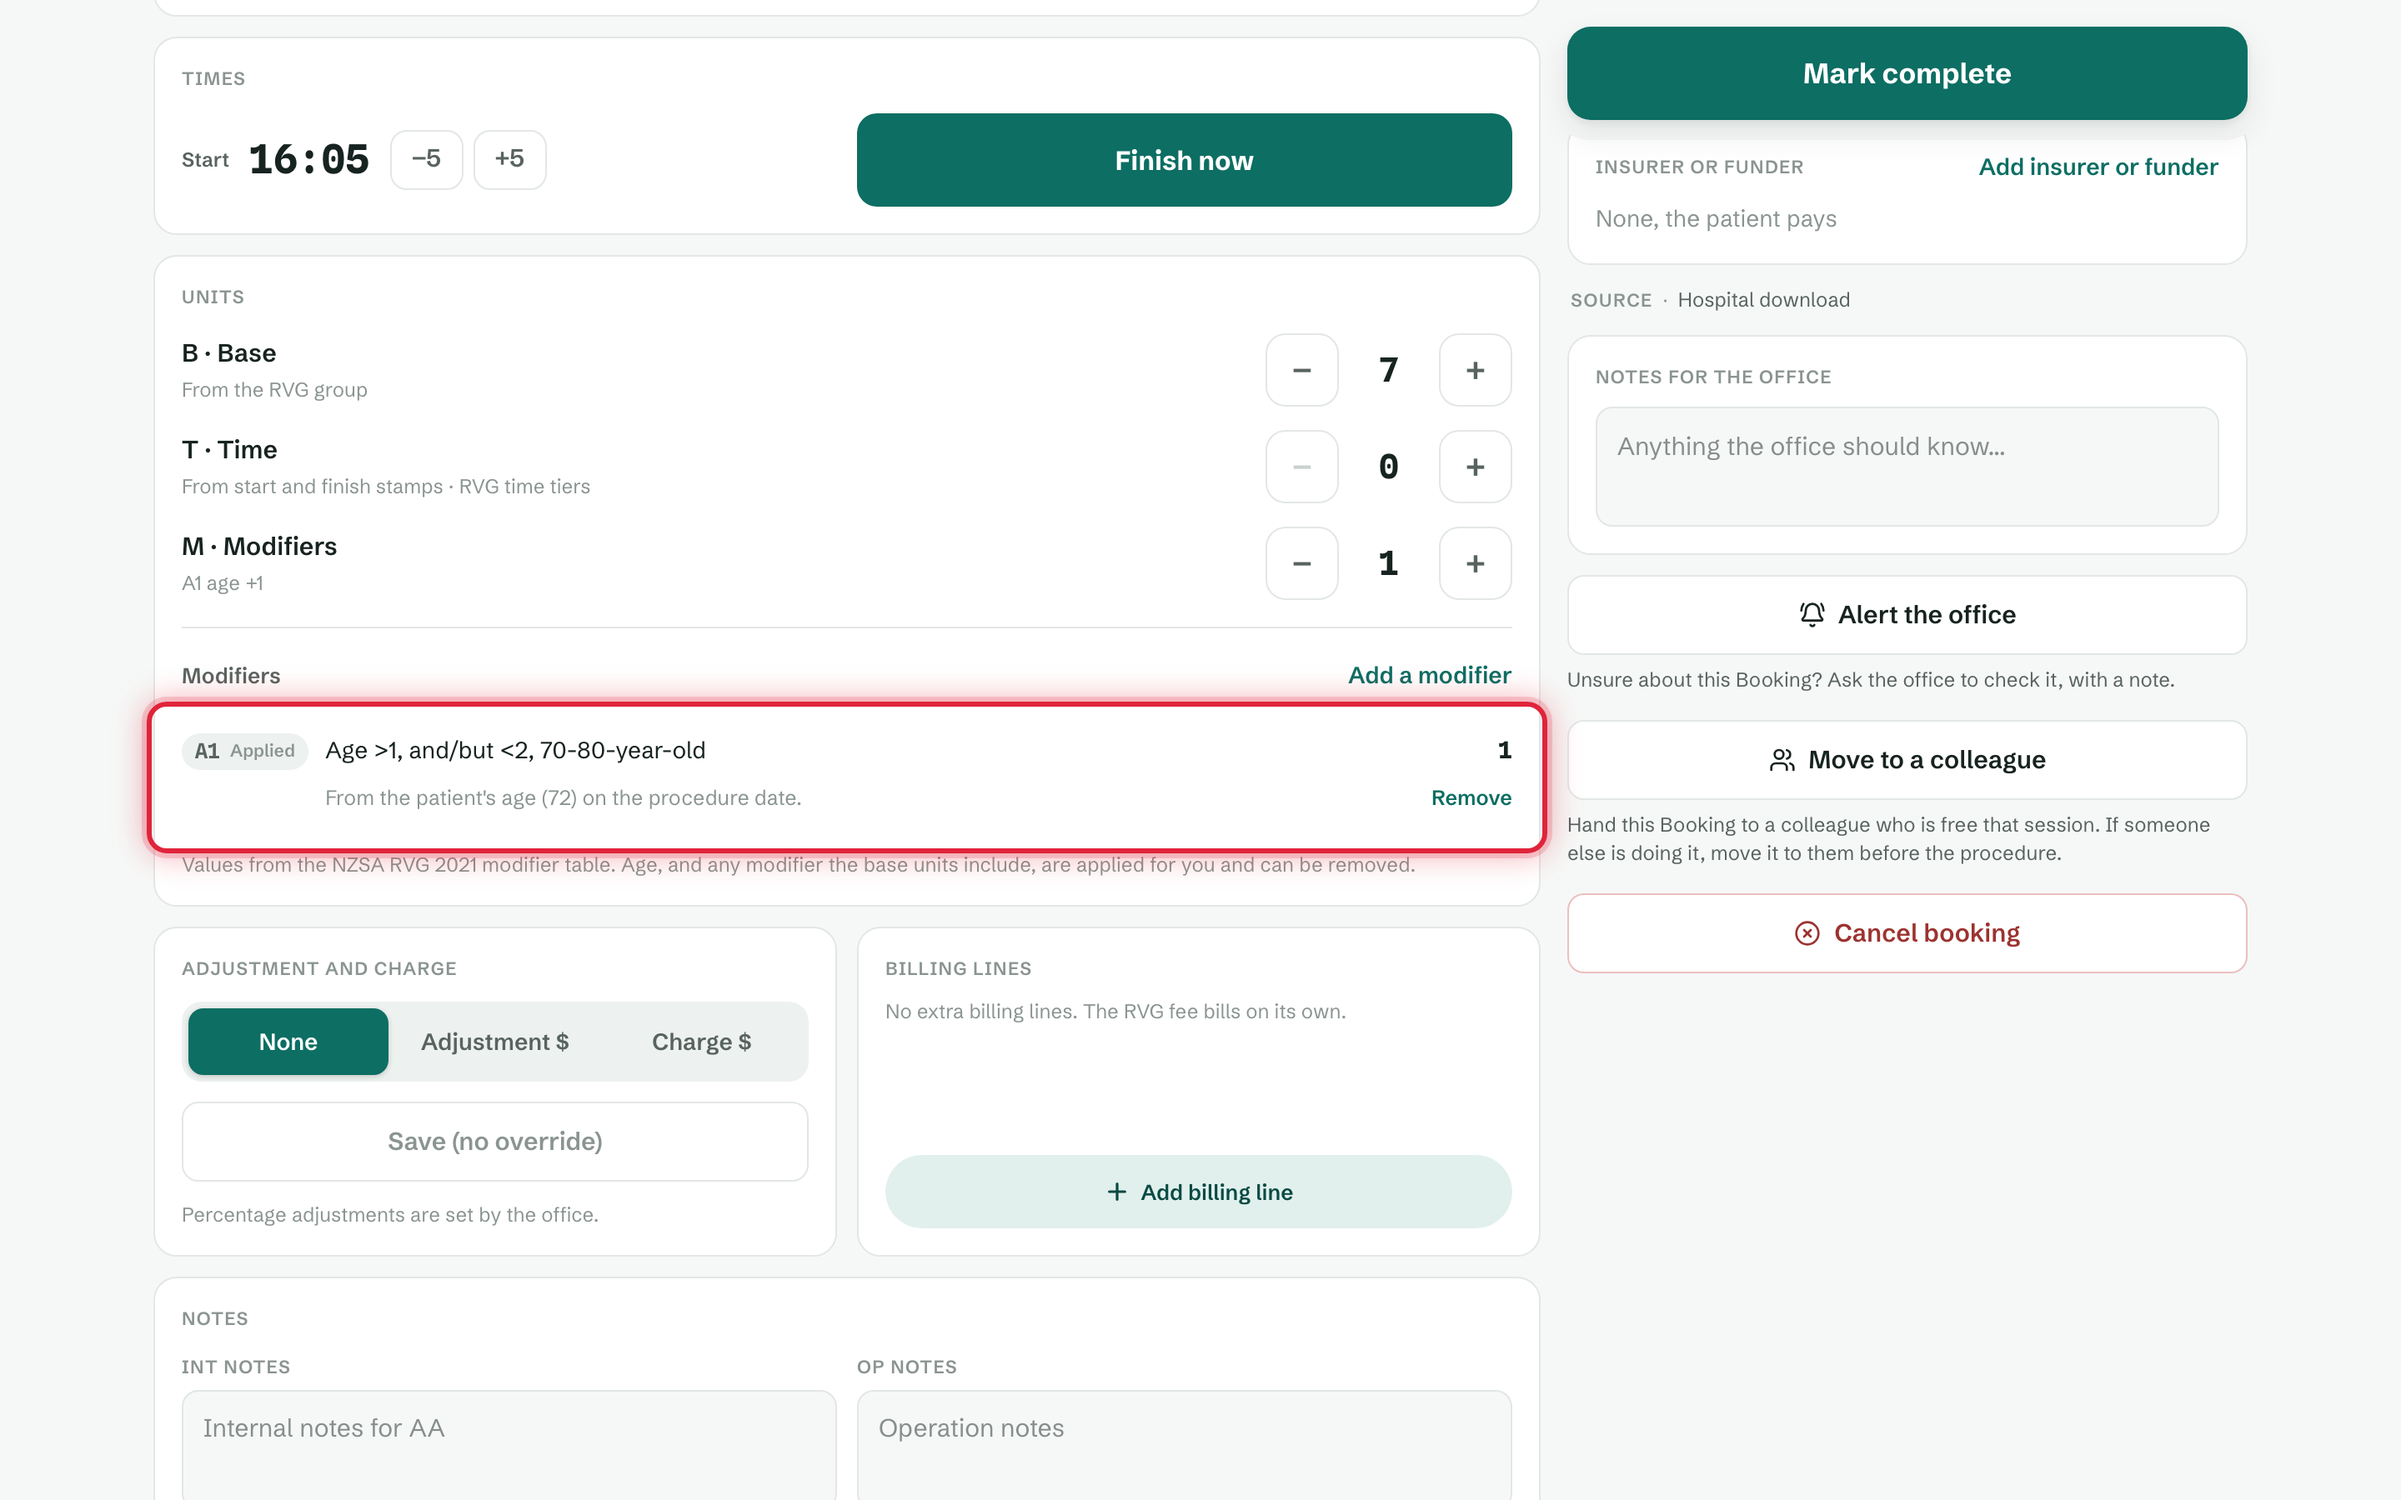
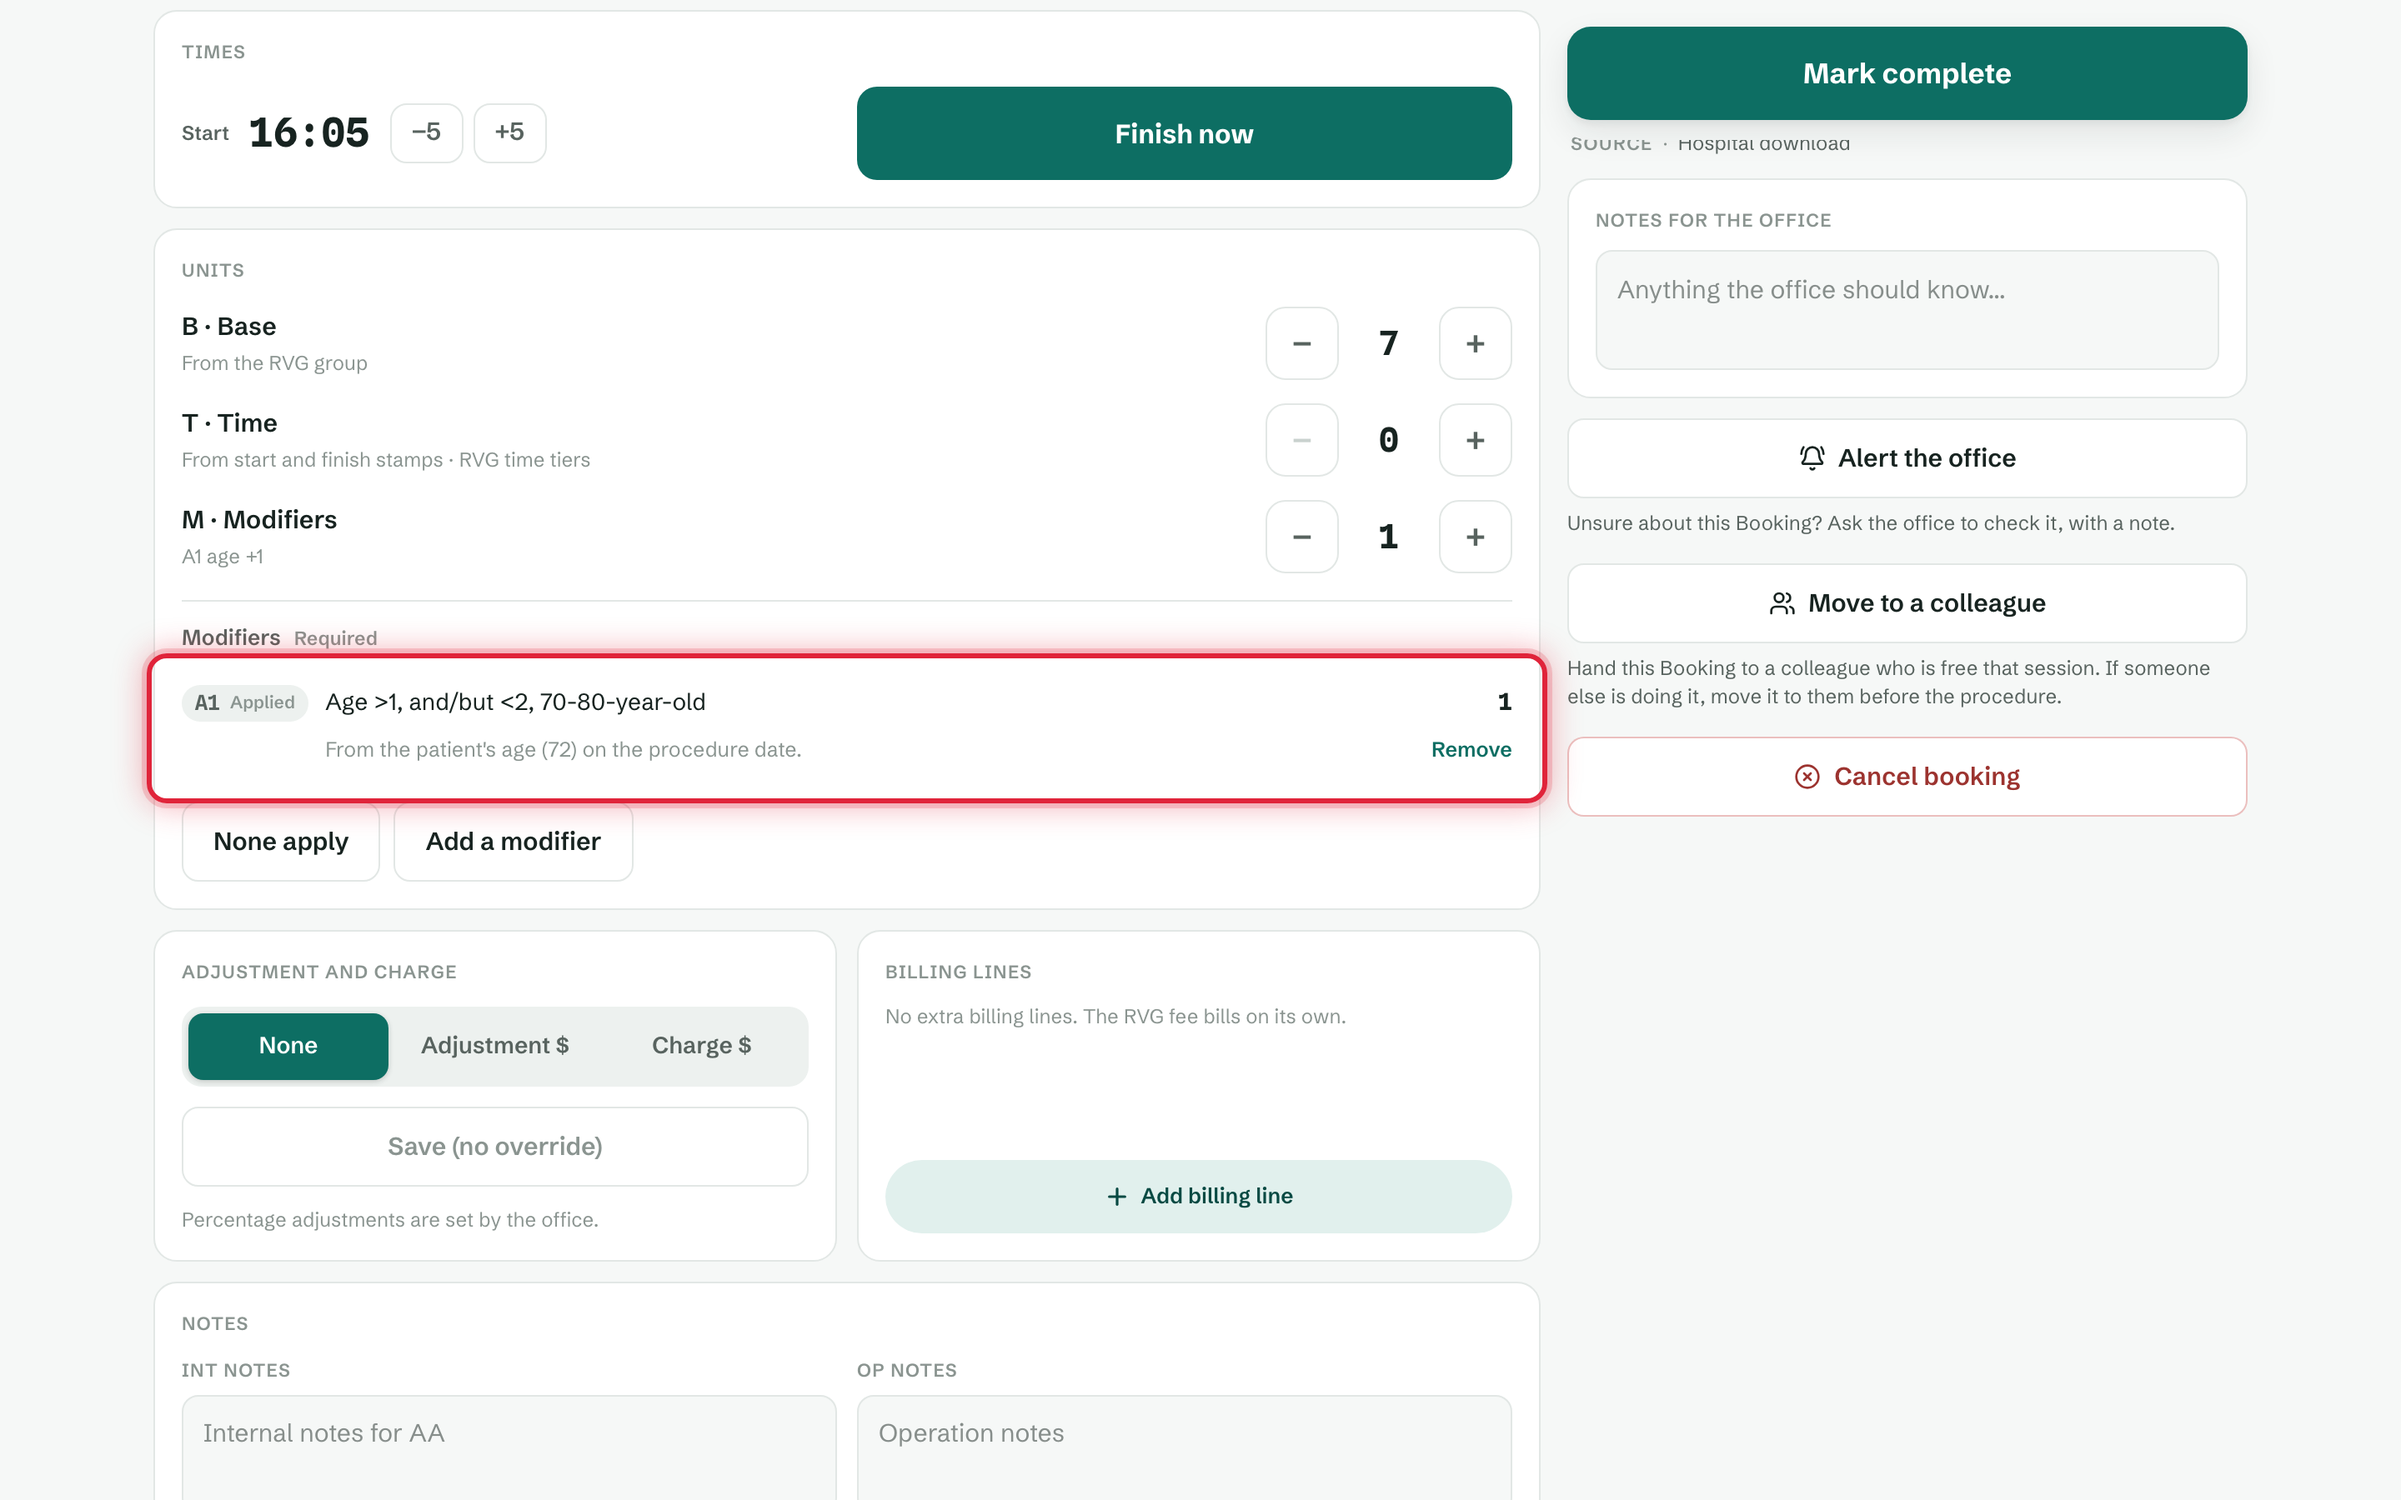
21a owner review: slimmer Times and Modifiers steps; catalogue capture
- Times: a missing start or finish is shown by the red outline on its
  action alone; no "Required" caption and no "Add the start/finish time."
  note (a finish before the start still gets its note).
- Modifiers: no red step note and no source caption; "None apply" and
  "Add a modifier" are equal-weight outlined rounded rectangles below the
  modifiers already applied; once answered, "No modifiers claimed · Change"
  takes their place. The block reaches to the card's edge so its focus ring
  sits near it, its corners concentric with the card's.
- Catalogue capture for US-03.3.9, US-04.3.11, US-03.6.1, US-03.3.3,
  US-03.3.4, US-07.2.2 and US-06.4.1 (7/7 recipes, dry run and capture).

diff --git a/aa-prototype/src/shared/capture/ModifiersSection.tsx b/aa-prototype/src/shared/capture/ModifiersSection.tsx
@@ -6,8 +6,8 @@ import type { ModifierId, Procedure } from '../../domain/types'
 import { confirmNoModifiers, modifierFactsFor, removeModifier, restoreModifier, useAppStore, type Actor } from '../../store'
 import { useSurface } from '../surface'
 import { ModifierPickerSheet } from './ModifierPickerSheet'
-import { Caption, FailureNotes, RequiredCaption } from './ui'
-import { modifiersStepAnswered } from '../../domain/billing/completion'
+import { FailureNotes, RequiredCaption } from './ui'
+import { MODIFIERS_STEP_MESSAGE, modifiersStepAnswered } from '../../domain/billing/completion'
 import { TextAction } from '../ui/TextAction'
 import { Button } from '../ui/Button'
 
@@ -46,6 +46,9 @@ interface ModifiersSectionProps {
  * dialog on web and Admin. Removing writes at once; claiming writes only when
  * the explanation is given (the picker's Claim).
  */
+/** How far the modifiers block reaches into the Units card's 16px padding, so its focus ring hugs the card. */
+const INSET_REACH = 12
+
 export function ModifiersSection({ procedure, items, actor, editable, required = false, latched = false, failures, onError }: ModifiersSectionProps) {
   const { variant } = useSurface()
   const web = variant === 'web'
@@ -84,7 +87,11 @@ export function ModifiersSection({ procedure, items, actor, editable, required =
       tabIndex={-1}
       data-validation-procedure-id={procedure.id}
       data-validation-fields="modifierClaims"
-      style={{ display: 'flex', flexDirection: 'column', gap: 10, borderRadius: radius.sm }}
+      className="aa-validation-inset"
+      // The last block of the Units card: it reaches to 4px inside the card's padding (16) so its focus ring
+      // sits near the card's edge, and its corners are concentric with the card's (owner review, 2026-11-17):
+      // card radius 14 = this radius (9) + the 5px between it and the card's outer edge (16 - 12 padding, + 1 border).
+      style={{ display: 'flex', flexDirection: 'column', gap: 10, margin: `0 -${INSET_REACH}px -${INSET_REACH}px`, padding: `0 ${INSET_REACH}px ${INSET_REACH}px`, borderRadius: radius.card - (16 - INSET_REACH + 1) }}
     >
       {/* The seam: the arithmetic above it, the itemised facts that make up M below. */}
       <div style={{ height: 1, background: neutral.line, margin: '2px 0' }} />
@@ -95,45 +102,12 @@ export function ModifiersSection({ procedure, items, actor, editable, required =
             <RequiredCaption latched={latched} />
           )}
         </span>
-        {editable && !asking && (
+        {editable && !asking && !noneConfirmed && (
           <TextAction onClick={() => setPicker({})} shot="modifier-add">
             Add a modifier
           </TextAction>
         )}
       </div>
-
-      {/* The step unanswered on an RVG kind: two equal answers, none or a claim (AR-58 A20). */}
-      {asking && editable && (
-        <div style={{ display: 'flex', flexWrap: 'wrap', alignItems: 'center', gap: 14 }}>
-          <Button variant="pill" shot="capture-modifiers-none" onClick={() => run(confirmNoModifiers(useAppStore, actor, procedure.id))}>
-            None apply
-          </Button>
-          <TextAction onClick={() => setPicker({})} shot="modifier-add">
-            Add a modifier
-          </TextAction>
-        </div>
-      )}
-
-      {noneConfirmed ? (
-        <div data-shot="capture-modifiers-none-done" style={{ fontSize: 13, color: neutral.slate, lineHeight: '18px' }}>
-          No modifiers claimed
-          {editable && (
-            <>
-              {' · '}
-              <TextAction small label="Change: add a modifier" onClick={() => setPicker({})}>
-                Change
-              </TextAction>
-            </>
-          )}
-        </div>
-      ) : (
-        empty &&
-        !(asking && editable) && (
-          <div style={{ fontSize: 13, color: neutral.mist, lineHeight: '18px' }}>
-            No modifiers. Add any that apply, each with a short reason.
-          </div>
-        )
-      )}
 
       {(preApplied.length > 0 || claimed.length > 0) && (
         <div role="list" aria-label="Modifiers on this procedure" style={{ display: 'flex', flexDirection: 'column', gap: 2 }}>
@@ -182,11 +156,46 @@ export function ModifiersSection({ procedure, items, actor, editable, required =
         </div>
       ))}
 
-      {/* A claim's own problem shows on its row; anything else the validator says shows here. */}
-      <FailureNotes failures={failures.filter((f) => !Array.from(problems.values()).includes(f.message))} />
-      <Caption>
-        Values from the NZSA RVG 2021 modifier table. Age, and any modifier the base units include, are applied for you and can be removed.
-      </Caption>
+      {/* The answer, where the question was asked: below the modifiers already applied. */}
+      {noneConfirmed ? (
+        <div data-shot="capture-modifiers-none-done" style={{ fontSize: 13, color: neutral.slate, lineHeight: '18px' }}>
+          No modifiers claimed
+          {editable && (
+            <>
+              {' · '}
+              <TextAction small label="Change: add a modifier" onClick={() => setPicker({})}>
+                Change
+              </TextAction>
+            </>
+          )}
+        </div>
+      ) : (
+        empty &&
+        !(asking && editable) && (
+          <div style={{ fontSize: 13, color: neutral.mist, lineHeight: '18px' }}>
+            No modifiers. Add any that apply, each with a short reason.
+          </div>
+        )
+      )}
+
+      {/* The step unanswered on an RVG kind: one question, two answers of equal weight, below the modifiers
+          already applied (AR-58 A20; owner review, 2026-11-17), on the outlined rounded rectangle every
+          other tap target in the card uses (a fully round shape here reads as a label). Neither is the default: a claim the anaesthetist
+          is owed must be as easy as none. */}
+      {asking && editable && (
+        <div style={{ display: 'flex', gap: 8 }}>
+          <Button variant="secondary" shot="capture-modifiers-none" style={{ flex: web ? '0 0 auto' : 1 }} onClick={() => run(confirmNoModifiers(useAppStore, actor, procedure.id))}>
+            None apply
+          </Button>
+          <Button variant="secondary" shot="modifier-add" style={{ flex: web ? '0 0 auto' : 1 }} onClick={() => setPicker({})}>
+            Add a modifier
+          </Button>
+        </div>
+      )}
+
+      {/* A claim's own problem shows on its row. The unanswered step is shown by the Required pill and the red
+          ring alone (owner review, 2026-11-17): no note. Anything else the validator says shows here. */}
+      <FailureNotes failures={failures.filter((f) => f.message !== MODIFIERS_STEP_MESSAGE && !Array.from(problems.values()).includes(f.message))} />
 
       {picker !== null && (
         <ModifierPickerSheet

diff --git a/aa-prototype/src/shared/capture/TimesCard.tsx b/aa-prototype/src/shared/capture/TimesCard.tsx
@@ -7,14 +7,14 @@ import { useSurface } from '../surface'
 import { minutesBetweenIso, shiftIsoMinutes } from './timeIso'
 import { hhmm } from '../format'
 import { CaptureSection, FailureNotes, NudgeButton } from './ui'
+import { ADD_FINISH_MESSAGE, ADD_START_MESSAGE } from '../../domain/billing/completion'
 
 interface TimesCardProps {
   procedure: Procedure
   actor: Actor
   canCapture: boolean
-  /** On an RVG kind the times are required (catch-up Phase 21a, US-03.3.3): the "Required" caption. */
+  /** Kept for callers (catch-up Phase 21a); the card shows no "Required" caption (owner review, 2026-11-17). */
   required?: boolean
-  /** Mark complete's validation latch: the caption takes the warning tint while a time is missing. */
   showValidation?: boolean
   /** anaestheticStartISO / handoverISO failures (shown post-latch, verbatim). */
   failures: BillingValidationFailure[]
@@ -35,7 +35,7 @@ interface TimesCardProps {
  * lays each label, time and nudge pair into one compact horizontal row. The
  * full-width track avoids nesting the cells inside another pair of columns.
  */
-export function TimesCard({ procedure, actor, canCapture, required = false, showValidation = false, failures, onError }: TimesCardProps) {
+export function TimesCard({ procedure, actor, canCapture, failures, onError }: TimesCardProps) {
   const { variant } = useSurface()
   const start = procedure.anaestheticStartISO
   const finish = procedure.handoverISO
@@ -72,13 +72,14 @@ export function TimesCard({ procedure, actor, canCapture, required = false, show
     write({ handoverISO: next })
   }
 
-  const startFailures = failures.filter((f) => f.field === 'anaestheticStartISO')
-  const finishFailures = failures.filter((f) => f.field === 'handoverISO')
+  // A missing time is shown by the red outline on its action alone (owner review, 2026-11-17): no "Required"
+  // caption and no "Add the start/finish time." note. Only a time that is wrong (finish before start) gets a note.
+  const missing = new Set([ADD_START_MESSAGE, ADD_FINISH_MESSAGE])
+  const notes = failures.filter((f) => !missing.has(f.message))
 
   return (
     <CaptureSection
       label="Times"
-      {...(required ? { required: showValidation && failures.length > 0 ? ('latched' as const) : ('idle' as const) } : {})}
       validationTarget={{
         procedureId: procedure.id,
         fields: ['anaestheticStartISO', 'handoverISO'],
@@ -96,7 +97,7 @@ export function TimesCard({ procedure, actor, canCapture, required = false, show
         compact={variant === 'web'}
       />
 
-      <FailureNotes failures={[...startFailures, ...finishFailures]} />
+      <FailureNotes failures={notes} />
     </CaptureSection>
   )
 }

diff --git a/aa-prototype/visual/mobile-phase04.spec.ts b/aa-prototype/visual/mobile-phase04.spec.ts
@@ -156,7 +156,8 @@ test('capture: refused completion focuses the first missing field', async ({ pag
   const finish = page.getByRole('button', { name: 'Finish now' })
   await expect(finish).toBeFocused()
   await expect(finish).toBeInViewport()
-  await expect(page.getByText('Add the finish time.')).toBeVisible()
+  // The red outline on Finish now is the only cue for a missing time (owner review, 2026-11-17): no note, no Required pill.
+  await expect(page.getByText('Add the finish time.')).toHaveCount(0)
 })
 
 test('capture: Chen read-only with adjusted-manually provenance', async ({ page }) => {

diff --git a/aa-prototype/src/theme/global.css b/aa-prototype/src/theme/global.css
@@ -395,6 +395,13 @@ html.aa-viewport-probe .aa-mobile-viewport::after {
   outline-offset: 3px;
 }
 
+/* A block that already reaches to the card's edge draws its ring inside itself, so the ring's
+   corners stay concentric with the card's (catch-up Phase 21a, the modifiers step). */
+.aa-validation-inset[data-validation-fields]:focus-visible,
+.aa-validation-inset[data-validation-focus='true']:focus {
+  outline-offset: -3px;
+}
+
 .aa-clickable-table-row {
   cursor: pointer;
 }
